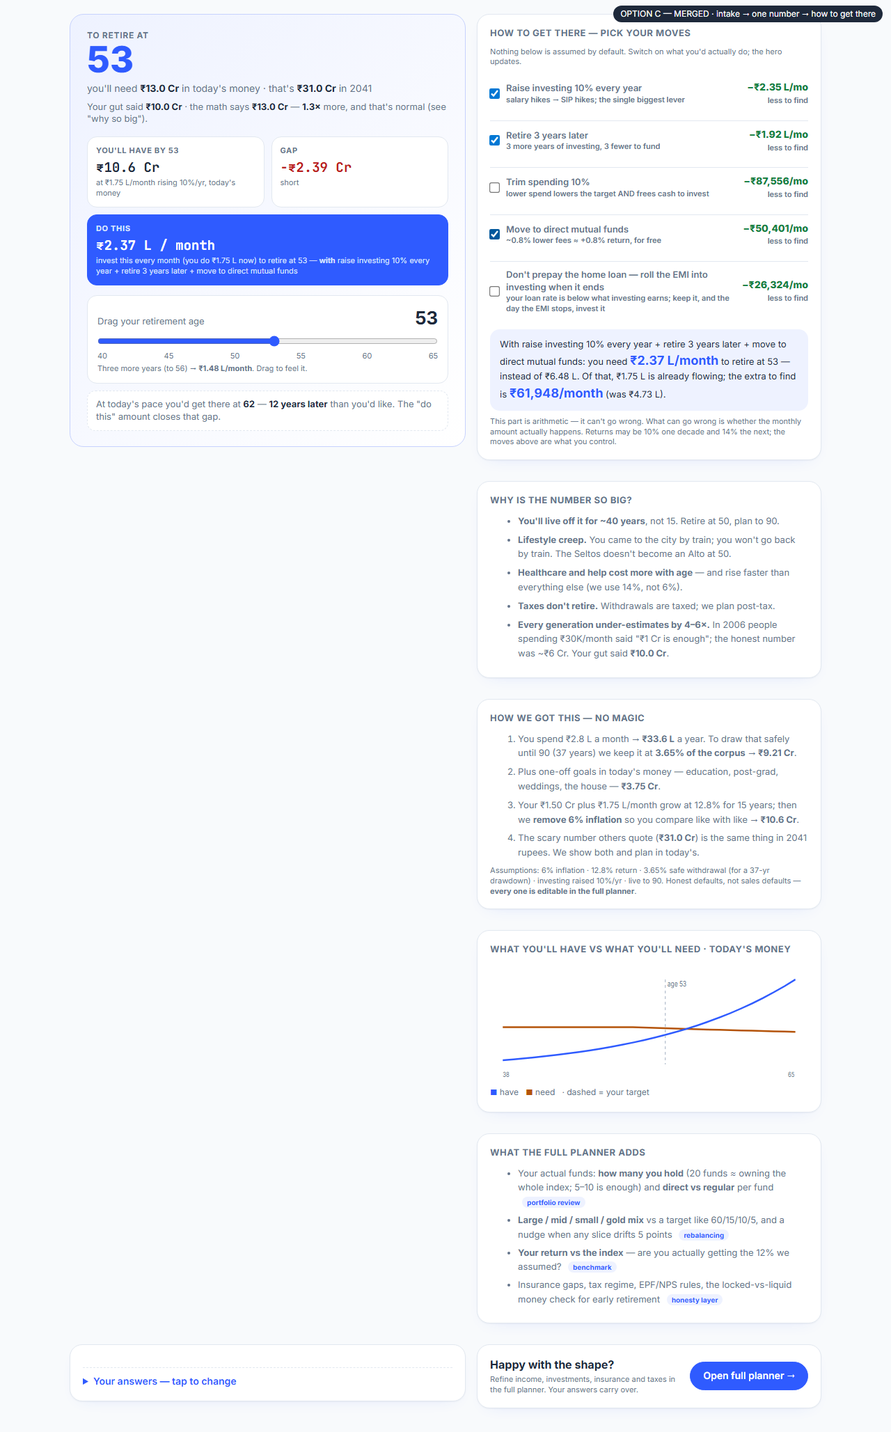
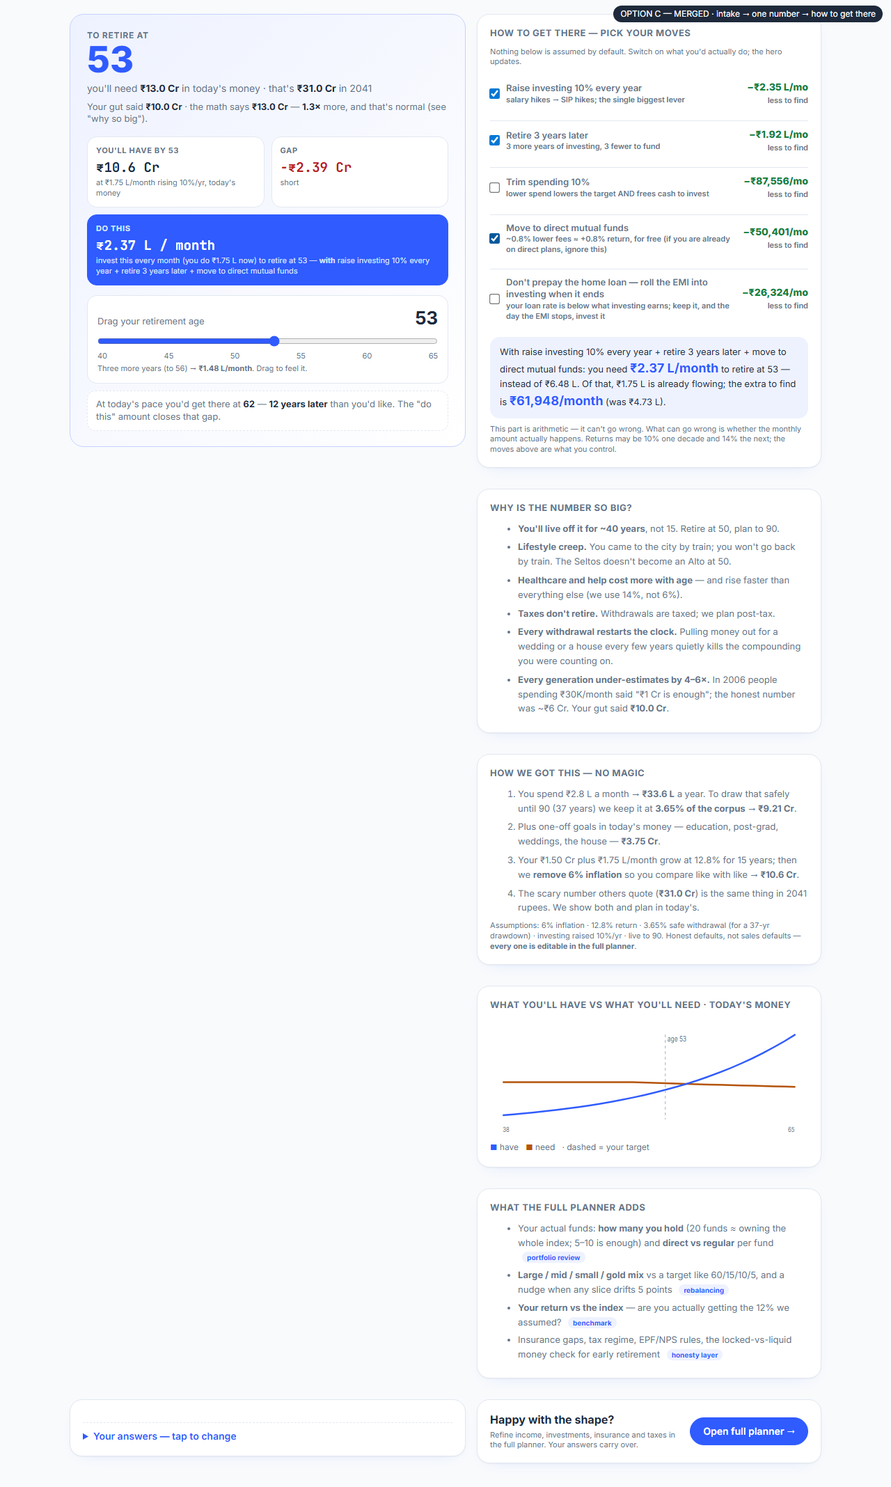
docs(goals): re-verify fixes — uiBodySchema server carve-out (strip-mode Zod would drop ui.quick), directPlans producer chip, matrix+mockup pinned with the spec
Claude-Session: https://claude.ai/code/session_01PiqGZ8w4L1igPHy7bza2SS

Changed region(s): [[0.5312, 0.0, 0.9688, 0.9956], [0.0938, 0.0, 0.5, 0.3111]]

diff --git a/docs/design/2026-08-27-quick-number-gap-hero/option-c-merged.html b/docs/design/2026-08-27-quick-number-gap-hero/option-c-merged.html
@@ -1,5 +1,6 @@
 <!doctype html><html><head><meta charset="utf-8"><meta name="viewport" content="width=device-width,initial-scale=1">
 <title>Option C — Merged (conversational intake → one-number hero → how to get there)</title>
+<!-- DESIGN SSOT for docs/goals/2026-08-27-quick-number-front-door.md — pinned with COVERAGE-MATRIX.md; the dispatch pin is the commit carrying this comment -->
 <link href="https://fonts.googleapis.com/css2?family=Inter:wght@400;500;600;700;800&family=JetBrains+Mono:wght@500;700&display=swap" rel="stylesheet">
 <link rel="stylesheet" href="fk-mock.css">
 <style>
@@ -99,7 +100,7 @@ const Q=[
  {k:"guess",q:"Gut feel first: how much do you think you need to retire?",h:"No maths yet — just your instinct. We'll compare it with the real number at the end.",type:"chips",opts:[[5*CR,"₹5 Cr"],[10*CR,"₹10 Cr"],[15*CR,"₹15 Cr"],[20*CR,"₹20 Cr"],[30*CR,"₹30 Cr+"]]},
  {k:"age",q:"How old are you, and when would you like to stop working?",h:"We plan from today to age 90 — 40 years of spending, not 15. A guess is fine; you'll drag the age later.",type:"num",extra:{k:"targetAge",label:"Retire at",plain:true}},
  {k:"spend",q:"What does your household spend in a month?",h:"Everything — EMI, school fees, travel, help, fun. ₹2.5–3 L? Say 2.8.",lakh:true,extra:{k:"income",label:"And the household take-home per month?"},sanity:true},
- {k:"corpus",q:"Total of ALL your investments today?",h:"Add everything up: mutual funds, stocks, ETFs, EPF, NPS, PPF, FDs, gold, bonds, crypto, plots and any flat you don't live in. Leave out only the home you live in.",lakh:true},
+ {k:"corpus",q:"Total of ALL your investments today?",h:"Add everything up: mutual funds, stocks, ETFs, EPF, NPS, PPF, FDs, gold, bonds, crypto, plots and any flat you don't live in. Leave out only the home you live in.",lakh:true,chips2:{k:"directPlans",label:"Are your mutual funds direct plans?",opts:[[true,"Direct"],[false,"Regular"],[null,"Not sure"]]}},
  {k:"sip",q:"How much do you put into investments every month?",h:"All of it: SIPs, stock/ETF buys, your PF + employer PF, NPS, PPF, RDs — whatever you add every month.",lakh:true},
  {k:"spouseCorpus",q:"Spouse's investments, if any?",h:"ALL of theirs too — MF, stocks, PF, NPS, gold, everything. Untick if not applicable.",lakh:true,toggle:"includeSpouse"},
  {k:"kids",q:"Kids?",h:"How many, and roughly how old? We time their education (at 18) and weddings (at 30) from this.",type:"chips",opts:[[0,"0"],[1,"1"],[2,"2"],[3,"3"]],extra:{k:"kidsAge",label:"Their age",plain:true}},
@@ -123,10 +124,12 @@ function draw(){
   if(q.extra) body+=field("ex",q.extra); if(q.extra2) body+=field("ex2",q.extra2);
   if(q.sanity) body+=`<div class="sanity" id="san">${sanityCopy()}</div>`;
   if(q.delta) body+=`<div class="hint" id="dh" style="margin-top:8px">${deltaCopy()}</div>`;
+  if(q.chips2) body+=`<label>${q.chips2.label}</label><div class="chips">${q.chips2.opts.map(([v,t])=>`<span class="chip c2 ${i[q.chips2.k]===v?"on":""}" data-v="${v}">${t}</span>`).join("")}</div>`;
   $("qcard").innerHTML=`<div class="q">${q.q}</div><div class="qhint">${q.h}</div>${body}`;
   const bind=(id,ex)=>{const el=$(id); if(!el) return; el.oninput=()=>{i[ex.k]=ex.plain?(+el.value||0):ex.pct?(+el.value||0)/100:(+el.value||0)*L; const p=$(id+"p"); if(p) p.textContent=FK.inr(i[ex.k]); sofar(); if($("dh")) $("dh").innerHTML=deltaCopy(); if($("san")) $("san").innerHTML=sanityCopy();};};
   bind("in",{k:q.k,plain:q.type==="num"}); if(q.extra) bind("ex",q.extra); if(q.extra2) bind("ex2",q.extra2);
-  document.querySelectorAll(".chip").forEach(c=>c.onclick=()=>{i[q.k]=+c.dataset.v;draw();});
+  document.querySelectorAll(".chip:not(.c2)").forEach(c=>c.onclick=()=>{i[q.k]=+c.dataset.v;draw();});
+  document.querySelectorAll(".chip.c2").forEach(c=>c.onclick=()=>{i[q.chips2.k]=c.dataset.v==="true"?true:c.dataset.v==="false"?false:null;draw();});
   const tg=$("tg"); if(tg) tg.onchange=()=>{i[q.toggle]=tg.checked;sofar(); if($("dh")) $("dh").innerHTML=deltaCopy();};
   $("back").disabled=s===0; $("next").textContent=s===Q.length-1?"See my number →":"Next →"; sofar();
 }
@@ -157,7 +160,7 @@ function render(){
   $("assump").textContent=`${+(i.inflation*100).toFixed(1)}% inflation · ${+(pi.equityReturn*100).toFixed(1)}% return · ${+(r.swrUsed*100).toFixed(2)}% safe withdrawal (for a ${90-pi.targetAge}-yr drawdown) · investing raised ${+(pi.stepUp*100).toFixed(0)}%/yr`;
   const toFind=(inp,res)=>Math.max(0,res.requiredSip-inp.sip);
   $("levers").innerHTML=FK.LEVERS.map(l=>{const avail=!l.available||l.available(i); const li=l.apply(i), one=FK.compute(li); const d=toFind(i,base)-toFind(li,one);
-    const fx=avail?`<b class="${d>0?"ok":"mut"}">−${FK.inr(Math.max(0,d))}/mo</b><span class="n">less to find</span>`:`<span class="n">${i.hasLoan?"your loan costs more than investing earns — prepay it":"no home loan"}</span>`;
+    const fx=avail?`<b class="${d>0?"ok":"mut"}">−${FK.inr(Math.max(0,d))}/mo</b><span class="n">less to find</span>`:`<span class="n">${l.key==="direct"?"you are already on direct plans":i.hasLoan?"your loan costs more than investing earns — prepay it":"no home loan"}</span>`;
     return `<label class="lever ${avail?"":"off"}"><input type="checkbox" data-k="${l.key}" ${on.has(l.key)?"checked":""} ${avail?"":"disabled"}><span>${l.label}<div class="n">${l.note}</div></span><span class="fx">${fx}</span></label>`;}).join("");
   document.querySelectorAll("#levers input").forEach(c=>c.onchange=()=>{c.checked?on.add(c.dataset.k):on.delete(c.dataset.k);render();});
   $("plansum").innerHTML = !planOn ? `Switch on a few moves to see the number you can actually live with.` :

diff --git a/docs/design/2026-08-27-quick-number-gap-hero/fk-mock.js b/docs/design/2026-08-27-quick-number-gap-hero/fk-mock.js
@@ -50,7 +50,8 @@ const FK = (() => {
     { key: "stepup",  label: "Raise investing 10% every year", note: "salary hikes → SIP hikes; the single biggest lever", apply: i => ({ ...i, stepUp: Math.max(i.stepUp, 0.10) }) },
     { key: "delay",   label: "Retire 3 years later",           note: "3 more years of investing, 3 fewer to fund",        apply: i => ({ ...i, targetAge: i.targetAge + 3 }) },
     { key: "trim",    label: "Trim spending 10%",              note: "lower spend lowers the target AND frees cash to invest", apply: i => ({ ...i, spend: i.spend * 0.9, sip: i.sip + i.spend * 0.1 }) },
-    { key: "direct",  label: "Move to direct mutual funds",    note: "~0.8% lower fees ≈ +0.8% return, for free",         apply: i => ({ ...i, equityReturn: i.equityReturn + 0.008 }) },
+    { key: "direct",  label: "Move to direct mutual funds",    note: "~0.8% lower fees ≈ +0.8% return, for free (if you are already on direct plans, ignore this)", apply: i => ({ ...i, equityReturn: i.equityReturn + 0.008 }),
+      available: i => i.directPlans !== true },
     { key: "noprepay",label: "Don't prepay the home loan — roll the EMI into investing when it ends", note: "your loan rate is below what investing earns; keep it, and the day the EMI stops, invest it", apply: i => ({ ...i, rollEmi: true }),
       available: i => i.hasLoan && i.emi > 0 && i.loanRate < i.equityReturn },
   ];
@@ -58,7 +59,7 @@ const FK = (() => {
   // Amit from the Dezerv video (FbYnFUwdODQ), in FireKaro's honest defaults
   const AMIT = { guess: 10 * CR, age: 38, targetAge: 50, spend: 2.8 * L, income: 5 * L, corpus: 80 * L, spouseCorpus: 70 * L, includeSpouse: true,
     sip: 1.75 * L, kids: 2, kidsAge: 6, education: 75 * L, postgrad: 1.5 * CR, wedding: 50 * L, house: 1 * CR,
-    includeHouse: true, hasLoan: true, emi: 1 * L, loanRate: 0.072, loanYearsLeft: 7, rollEmi: false,
+    includeHouse: true, directPlans: null, hasLoan: true, emi: 1 * L, loanRate: 0.072, loanYearsLeft: 7, rollEmi: false,
     inflation: 0.06, equityReturn: 0.12, swr: 0.035, stepUp: 0, planToAge: 90 };
   return { inr, compute, effSwr, applyPlan, LEVERS, AMIT, L, CR };
 })();

diff --git a/docs/goals/2026-08-27-quick-number-front-door.md b/docs/goals/2026-08-27-quick-number-front-door.md
@@ -58,7 +58,7 @@ file/symbol below before creating it; `docs/goals/.run/quick-number-PROGRESS.md`
 **Pre-made decisions:**
 - New pure module `src/lib/required-contribution.ts`: `requiredMonthlyContributionFor({ snapshot, assumptions, lens, targetAge })` → `{ requiredMonthlyReal, currentMonthlyReal, gapReal, needReal, haveAtTargetReal, paceFireAge, needNominal, swrUsed }`. Implementation = **binary search on the household real monthly contribution** through the existing `derive()` path (NOT a parallel formula) so step-up, bridge/accessibility, horizon-SWR, family layer and lens are all honoured. Bounds: `lo = 0`, `hi = max(10 × current real monthly contribution, 5 × household monthly take-home, ₹5,00,000)`; tolerance ₹100/month; cap 60 iterations. If `derive()` at `hi` still does not reach the target age → `requiredMonthlyReal = Infinity` (the UI renders "beyond any realistic monthly amount — move the age"); `paceFireAge = null` when the current pace never reaches the number by `planToAge`. Never NaN (rule 31). **Monotonicity is a precondition of binary search and MUST be locked by a property test** (`kernel-invariants.property.spec.ts`): for every seed + fast-check perturbation, `derive()`'s years-to-FIRE / target-age reachability is non-increasing in the real monthly contribution across `[lo, hi]` — bridge, horizon-SWR, healthcare reservation and the NPS post-tax offset included. If the test finds a non-monotone region, STOP: file an issue and fall back to a monotone-guaranteed scan (step ₹1,000, then bisect within the first reachable step) — do not ship a silently-wrong solver.
 - Expose via `useFireDerive.ts` as computed fields; `targetAge` comes from the household's `targetRetirementAge` (existing), overridable by the hero slider (UI-local, non-persisting until "Set as my target" is clicked → persists via the existing store action).
-- `FireHero.vue` (Option-D hero, D-2026-06-10-09) gains: **one headline = target age** (replace "You'll FIRE at age N" with "To retire at {target} you'll need ₹X (today's money · ₹Y in {year})"; the current-pace age moves to the demoted annotation exactly as in the mockup), the four tiles (need / have-by-target / gap / **do this**), the retirement-age slider (40–70), the "+3 years → ₹" hint, and the gut-feel line when `ui.quick.guess` is set. **QN-2 declares** `ui.quick?: { guess?: number; completedAt?: string; createdIds?: string[]; directPlans?: boolean }` in `src/stores/ui.ts` (persisted inside the existing `ui` document blob — no new column) and reads it; QN-1 later writes it. Confidence band + since-away delta + plan-variance KPI + bridge subline are RETAINED (non-removable honesty surfaces).
+- `FireHero.vue` (Option-D hero, D-2026-06-10-09) gains: **one headline = target age** (replace "You'll FIRE at age N" with "To retire at {target} you'll need ₹X (today's money · ₹Y in {year})"; the current-pace age moves to the demoted annotation exactly as in the mockup), the four tiles (need / have-by-target / gap / **do this**), the retirement-age slider (40–70), the "+3 years → ₹" hint, and the gut-feel line when `ui.quick.guess` is set. **QN-2 declares** `ui.quick?: { guess?: number; completedAt?: string; createdIds?: string[]; directPlans?: boolean }` in `src/stores/ui.ts` (persisted inside the existing `ui` document blob — no new column) and reads it; QN-1 later writes it. **Server carve-out (the ONE permitted `server/` edit, verified 2026-08-27):** `server/src/routes/planner.ts` `uiBodySchema` is a strip-mode `z.object` — an unknown `quick` key is silently dropped on PUT. QN-2 adds `quick: quickPrefsSchema.optional()` (guess number ≥0, completedAt ISO string, createdIds string[], directPlans boolean — all optional) to `uiBodySchema` and to the merge in the same route, plus a `planner.integration.spec.ts` case (PUT with `quick` → GET returns it; PUT without `quick` leaves an existing `quick` intact — the merge-not-replace guarantee). Server gate: `cd server && npm run type-check && npm run lint && npm run test:unit`. No Prisma change (prefs is `Json`). Confidence band + since-away delta + plan-variance KPI + bridge subline are RETAINED (non-removable honesty surfaces).
 - **New** `GapTone = "short" | "surplus" | "unknown"` + `resolveGapTone(gapReal)` in `dashboard-verdict.ts` (amber / green / neutral; NaN or ±Infinity → `unknown`, makes NO claim). The existing plan-variance `HeroTone`/`resolveHeroTone` and its rule-31 no-baseline contract are **untouched** — two signals, two types, both shown.
 - `WhatIf.vue`'s retirement-age input stays; it and the hero slider read/write the same UI-store field (`ui.whatIfTargetAge`, session-only: explicitly EXCLUDED from the `ui` store's persisted blob and its `watch` list) — one source, no drift (#64 class).
 
@@ -70,7 +70,7 @@ file/symbol below before creating it; `docs/goals/.run/quick-number-PROGRESS.md`
 
 **Pre-made decisions:**
 - Route `/quick` (**no `meta.layout`**, exactly like `Splash`/`Login` — `App.vue` only checks `=== 'sidebar'`; do not invent a new layout key), page `src/pages/QuickNumber.vue`, components under `src/components/quick/` (`QuickCard.vue`, `LakhInput.vue`, `QuickResult.vue`). Entry: Splash "Start my own plan" → `/quick` (the 7-step wizard becomes "Refine your plan", reachable from the result CTA and the sidebar; completing `/quick` sets the EXISTING `household.wizardCompleted = true` — the flag means "setup complete", and the quick path IS the setup; the path taken is recorded in `ui.quick.completedAt`. NO new flag, NO schema change). Demo "Try the sample" unchanged; every demo-only affordance stays behind `isServerMode()`.
-- **Exactly the 10 cards of Option C**, same order, same copy (copy lives in `src/lib/quick-number-copy.ts` so it is testable and one-place): gut-feel · you (age + retire-at) · spend (+ take-home, with the sanity line) · ALL investments (copy names stocks/ETFs/gold/crypto/bonds/plots/second flat; only the home excluded) · monthly investing (names stock buys + both PFs) · spouse investments (toggle) · kids (count + age) · kids' big costs (education, post-grad, weddings) · big purchase (toggle + live delta) · home loan (toggle; EMI, rate, years left). Money in lakh with live ₹ preview; "So far…" strip after card 3.
+- **Exactly the 10 cards of Option C**, same order, same copy (copy lives in `src/lib/quick-number-copy.ts` so it is testable and one-place): gut-feel · you (age + retire-at) · spend (+ take-home, with the sanity line) · ALL investments (copy names stocks/ETFs/gold/crypto/bonds/plots/second flat; only the home excluded; + the Direct/Regular/Not-sure chip row → `ui.quick.directPlans`) · monthly investing (names stock buys + both PFs) · spouse investments (toggle) · kids (count + age) · kids' big costs (education, post-grad, weddings) · big purchase (toggle + live delta) · home loan (toggle; EMI, rate, years left). Money in lakh with live ₹ preview; "So far…" strip after card 3.
 - **Persistence = real household data, never a side store** (5W principle 2 + the storage invariant): mapping in `src/lib/quick-number.ts` `applyQuickAnswers(household, answers)` → adult member(s) with ages + `targetRetirementAge`; `expenses.avgMonthly`; one salary line for take-home; ONE investment line per person, type `"MutualFunds"` (exact `investmentTypeSchema` enum value; equity-classified by `investment-traits.ts`), label "All investments (quick estimate)", tagged `subtypeData: { quick: true }` (existing Json column — `Investment.source` already exists with a DIFFERENT meaning, 'Direct'/owner-entity id, and MUST NOT be reused); kids as DEPENDENT members with `educationStage` from age; plannedFuture lines: education (kind `education`, targetYear = kids reach 18), post-grad (education, +4), weddings (`marriage`, kids reach **30** — the advisor's figure in the transcript, "25 years from now, at the age of 30"), big purchase (`general`, targetYear = now+6 unless asked); home loan as a Liability (auto-flows the EMI — so spend must be entered **without** EMI when a loan is present: card 3 copy adapts: "…excluding the home-loan EMI, we add that from the next card" — resolve the double-count explicitly); gut-feel guess + quick metadata in the **`ui` document** (`ui.quick = { guess, completedAt, createdIds }` inside `userUiPrefs.prefs` — schemaless JSON, merged server-side, so NO Prisma migration; `HouseholdConfig` columns are explicit and `server/` is off-limits). Idempotent: re-running quick updates the lines listed in `ui.quick.createdIds` (fallback: the `subtypeData.quick` tag), never duplicates.
 - Result screen = `QuickResult.vue` reusing the QN-2 hero + QN-5 levers + the explainer/chart/"full planner adds"/answers cards from Option C. "Open full planner" → `/fire-goals/dashboard`.
 - Zod: `quickAnswersSchema` in `src/types/quick-number.ts`; every field optional after age/target/spend (rough is fine); no NaN reaches the UI (rule 31).
@@ -88,7 +88,7 @@ file/symbol below before creating it; `docs/goals/.run/quick-number-PROGRESS.md`
 ## 6. STAGE QN-5 — "How to get there" levers  (matrix B4, B6, C6, C7, D2, E6, E7, F6)
 
 **Pre-made decisions:**
-- Extend `src/lib/lever-catalog.ts` (not a new module) with: `step-up-10` (sets `householdSavingsStepUpPercent` 10 via ADR-0004 — already supported by the kernel), `delay-3` (target+3), `direct-plans` (available only when the household is not already marked direct — `ui.quick.directPlans !== true`, or later per-holding data; a What-If lever value: +0.008 on equity-class returns applied through the existing scenario/lever-value path — `user_assumptions` columns are explicit, so NO new persisted assumption field; "Make this my plan" maps it to the existing `equityReturn` override (+0.8 pp) with a note in the preferences hint. A per-holding regular/direct flag is a separate good-to-have issue), `no-prepay-roll-emi` (available only when a liability exists with rate < expected equity return; effect = a `ContributionSchedule` segment adding the EMI from the loan's end-year — ADR-0004 segments, no kernel change). Existing `trim-expenses` and `save-more` stay.
+- Extend `src/lib/lever-catalog.ts` (not a new module) with: `step-up-10` (sets `householdSavingsStepUpPercent` 10 via ADR-0004 — already supported by the kernel), `delay-3` (target+3), `direct-plans` (available only when `ui.quick.directPlans !== true` — QN-1's investments card carries a 3-chip row "Are your mutual funds direct plans? Direct / Regular / Not sure" that writes `ui.quick.directPlans` (true only for Direct); absent/unsure → the lever stays available with the note "if you're already on direct plans, ignore this"; a What-If lever value: +0.008 on equity-class returns applied through the existing scenario/lever-value path — `user_assumptions` columns are explicit, so NO new persisted assumption field; "Make this my plan" maps it to the existing `equityReturn` override (+0.8 pp) with a note in the preferences hint. A per-holding regular/direct flag is a separate good-to-have issue), `no-prepay-roll-emi` (available only when a liability exists with rate < expected equity return; effect = a `ContributionSchedule` segment adding the EMI from the loan's end-year — ADR-0004 segments, no kernel change). Existing `trim-expenses` and `save-more` stay.
 - Effect metric everywhere = **"less to find"** = Δ(required monthly − current monthly) from QN-2's solver, per lever alone and for the stacked set; stacking = apply levers to the snapshot/assumptions then re-solve (no additive shortcuts).
 - The lever card (Option C) lives in `src/components/quick/LeverPicker.vue` and is added to the dashboard INSIDE `AccelerationCard.vue` as its body. **`useAcceleration.ts`, `lever-impact.ts`, `lever-bands.ts`, the `bridgeBinding`/`baselineReachable` guards and `AccelerationCard.binding.spec.ts` are RETAINED** (bug-#22 / rule-31 history): the "biggest win" KPI keeps its years-saved ranking; LeverPicker adds the ₹/month "less to find" view driven by `required-contribution.ts` (which itself goes through `derive()`, so it is bridge-aware). The binding spec is EXTENDED with the picker, never deleted. Only the fixed-extra-amount "save more" presentation is replaced.
 - Toggled levers update the hero live; persisting a lever = the existing scenario mechanism (`scenarios` store, non-persisting What-If) — "Make this my plan" writes step-up/target into household + assumptions.
@@ -110,14 +110,14 @@ Rules 24 (screenshot+ARIA+console per screen), 25 (UI→DB dual signal in server
 - [ ] COVERAGE-MATRIX rows A1–A16, B1–B6, C1–C7, D2, E1–E7, F1–F4, F6(D2 part) each cite a merged PR + evidence path in the final report; D1/D3–D6/F5 cite their tracking issue.
 - [ ] QN-3 merged with the kernel spec + mutation proof; new issue closed.
 - [ ] QN-2 solver spec-locked; hero shows one headline age; slider live; `WhatIf` and hero share one field.
-- [ ] QN-1: Splash → `/quick` → 10 cards → result → dashboard, persisted as real household data (+ `ui.quick` metadata), idempotent, EMI not double-counted, ZERO Prisma changes; every "total" question copy passes the ALL/stocks/one-exclusion spec.
+- [ ] QN-1: Splash → `/quick` → 10 cards → result → dashboard, persisted as real household data (+ `ui.quick` metadata), idempotent, EMI not double-counted, ZERO Prisma changes; the `uiBodySchema` carve-out landed with its merge-not-replace integration test; every "total" question copy passes the ALL/stocks/one-exclusion spec.
 - [ ] QN-4 explainers render with `derive()` numbers; QN-5 four new levers + "less to find" metric + no-inert-lever guard.
 - [ ] Both trees green; `npm run test:e2e` green incl. `e2e/quick-number.spec.ts` and the member-lens sweep with `/quick`; zero new a11y Critical/Serious.
 - [ ] SCREEN-STANDARD.md (hero + quick pattern), `docs/PROJECT-LOG.md` (decision + status), README "Running locally" unchanged, CLAUDE.md "Routing" line gains `/quick`.
 - [ ] No deploy. Deferred items in `docs/goals/.run/quick-number-DEFERRED.md` with rule + reason.
 
 ## 10. Guardrails (hard stops)
-- `src/`, `e2e/`, `docs/`, `SCREEN-STANDARD.md`, `CLAUDE.md` (one line) only. Never `server/` — verified 2026-08-27: every new datum this contract needs fits an EXISTING column (`plannedFuture.kind`, `Investment.subtypeData` Json, `Investment.contributionSchedule` Json, `userUiPrefs.prefs` Json, `Member.targetRetirementAge`). If a stage finds otherwise, STOP and file an issue, never `.claude/`, never `5Wealths\`.
+- `src/`, `e2e/`, `docs/`, `SCREEN-STANDARD.md`, `CLAUDE.md` (one line) only — plus the SINGLE carve-out in QN-2: `server/src/routes/planner.ts` `uiBodySchema` + its integration spec (nothing else under `server/`). Otherwise never `server/` — verified 2026-08-27: every new datum this contract needs fits an EXISTING column (`plannedFuture.kind`, `Investment.subtypeData` Json, `Investment.contributionSchedule` Json, `userUiPrefs.prefs` Json, `Member.targetRetirementAge`). If a stage finds otherwise, STOP and file an issue, never `.claude/`, never `5Wealths\`.
 - No new npm dependencies. No parallel math: every number on screen comes from `derive()`/`required-contribution.ts`; `fk-mock.js` is never imported.
 - Honesty surfaces are non-removable (confidence band, household-primary headline, bridge verdict, "nothing assumed by default" on levers, both today's and nominal shown once).
 - Copy principle (2026-08-27): any "total" question says ALL first, names stocks/ETFs/gold/crypto/bonds/property, states the single exclusion.

diff --git a/docs/design/2026-08-27-quick-number-gap-hero/COVERAGE-MATRIX.md b/docs/design/2026-08-27-quick-number-gap-hero/COVERAGE-MATRIX.md
@@ -5,7 +5,7 @@ measured against. A row is DONE only when the mockup column AND the plan column 
 Legend: ✓ covered · ◐ partial · ✗ missing · — deliberately out of scope (reason given).
 
 Source of truth for the left column: `D:\Abhay\Ventures\transcripts\FbYnFUwdODQ.md` (transcript) and
-`FbYnFUwdODQ-firekaro-crosscheck.md` (feature cross-check). FireKaro column verified against `main` 2026-08-27.
+`FbYnFUwdODQ-firekaro-crosscheck.md` (feature cross-check). FireKaro column verified against `main` 2026-08-27. **Pinned with the spec: this matrix, `option-c-merged.html` and `docs/goals/2026-08-27-quick-number-front-door.md` are versioned together — the dispatch pin is the commit that carries this sentence.**
 
 ## A. Inputs the advisor collected (video Part 1)
 
@@ -57,7 +57,7 @@ Source of truth for the left column: `D:\Abhay\Ventures\transcripts\FbYnFUwdODQ.
 | # | Video item | FireKaro today | Mockup now | Plan |
 |---|---|---|---|---|
 | D1 | XIRR vs benchmark (13.3 vs 13.4) | #146 open | listed in "What the full planner adds" | — (#146, separate) |
-| D2 | Access: direct vs regular TER (+80 bps) | none | ◐ lever (+0.8%; mock has no "already direct" gate — spec adds one) | QN-5 (household-level toggle) ; per-holding flag → #NEW |
+| D2 | Access: direct vs regular TER (+80 bps) | none | ✓ lever (+0.8%) gated by the Direct/Regular/Not-sure chip on the investments card | QN-5 (household-level toggle) ; per-holding flag → #NEW |
 | D3 | Selection: 72/18/9 vs 60/25–27/13–15 | none | listed | — (#141) |
 | D4 | Allocation: 65% funds underperform; 20 funds = index; keep 5–10 | none | listed ("we'll count your funds") | #NEW fund-count warning (good-to-have) |
 | D5 | Gold ~7% = ideal uncorrelated asset | goldReturn 7% | listed | — |
